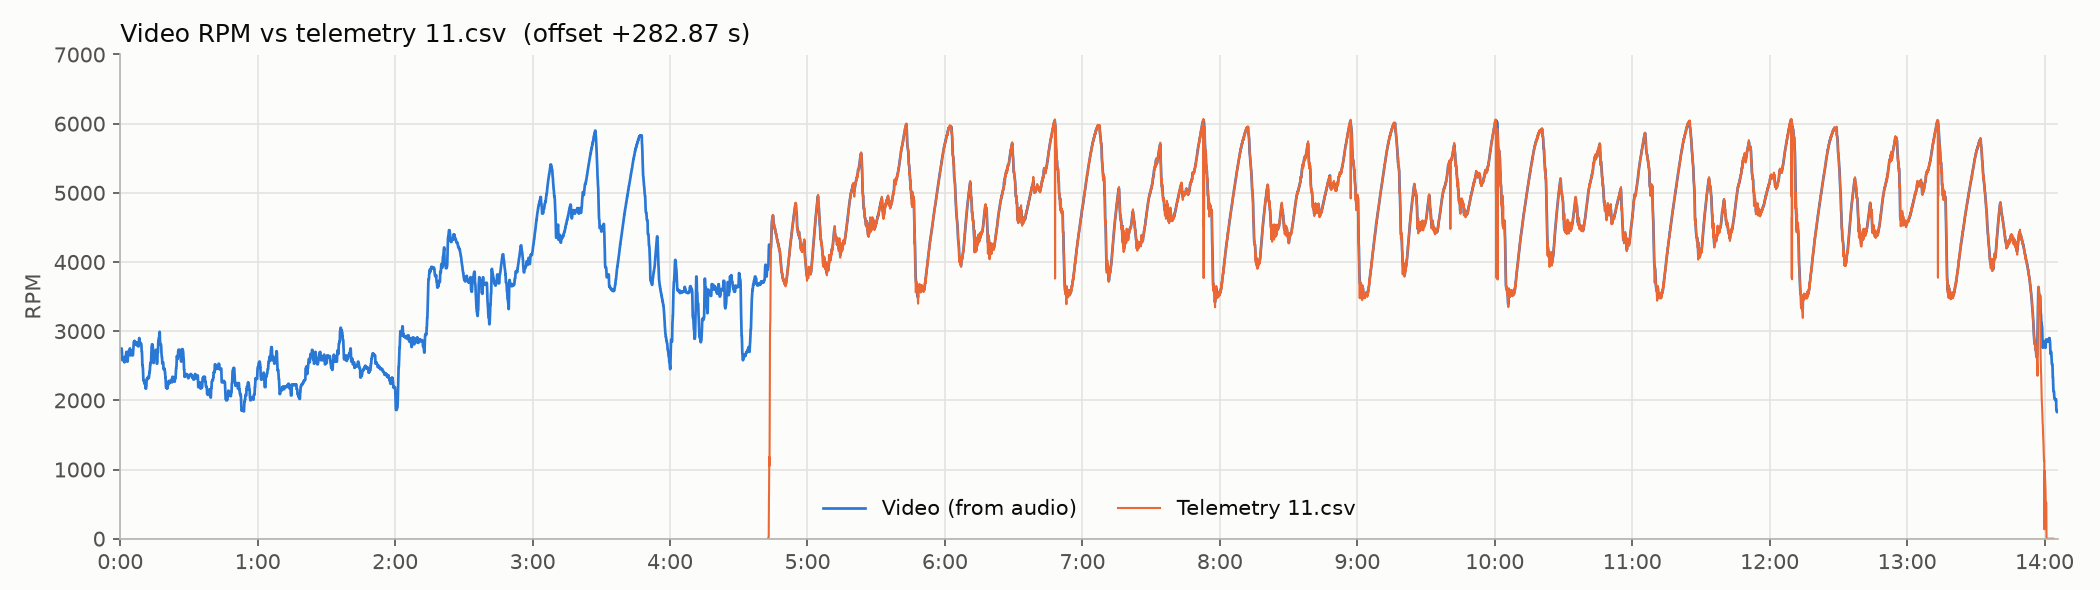
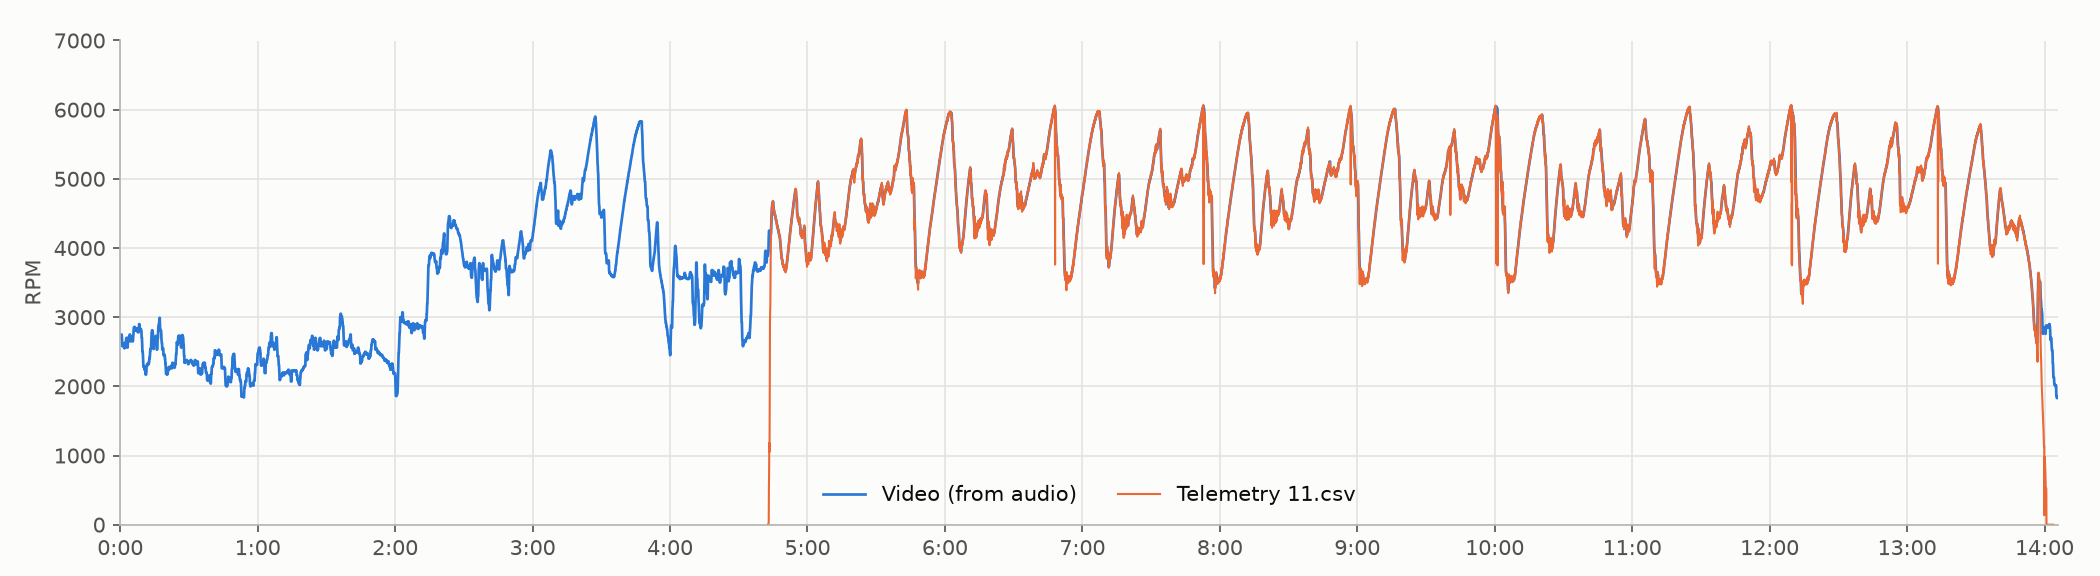
Show offsets as minutes, seconds and milliseconds

diff --git a/batch_sync.py b/batch_sync.py
@@ -9,9 +9,9 @@ For each video (*.MP4 / *.mov) in the folder:
   2. correlate it with every CSV in <folder>/telemetry   (kart_sync)
   3. verify the best candidates window-by-window
   4. if it's a confident match, copy the CSV to
-        <folder>/<video name> - <offset>.csv
-     where offset = seconds into the video at which telemetry t=0 occurs
-     (telemetry_time = video_time - offset).
+        <folder>/<video name> - <offset>.csv      e.g. "GX010034 - 0m33s925ms.csv"
+     where offset = time into the video at which telemetry t=0 occurs, as
+     <minutes>m<seconds>s<milliseconds>ms (telemetry_time = video_time - offset).
 
 Also writes <folder>/sync_check/<video> - sync.png (overlay plot) and
 <folder>/sync_check/summary.csv. Needs kart_rpm.py and kart_sync.py next to it,
@@ -31,7 +31,7 @@ import numpy as np
 sys.path.insert(0, os.path.dirname(os.path.abspath(__file__)))
 from kart_rpm import analyze, HOP_S                                   # noqa: E402
 from kart_sync import (load_aim_csv, resample, coarse_match,          # noqa: E402
-                       fine_align, plot_sync, natural_key)
+                       fine_align, plot_sync, natural_key, format_offset)
 
 VIDEO_EXT = (".mp4", ".mov", ".m4v")
 MIN_OVERLAP_S = 120         # minimum video/telemetry overlap for a match
@@ -67,7 +67,6 @@ def main():
     ap = argparse.ArgumentParser(description=__doc__.split("\n\n")[0])
     ap.add_argument("folder")
     ap.add_argument("--telemetry", default=None, help="default: <folder>/telemetry")
-    ap.add_argument("--decimals", type=int, default=2, help="decimals of the offset in file names")
     a = ap.parse_args()
 
     folder = os.path.abspath(a.folder)
@@ -95,7 +94,7 @@ def main():
         stem = os.path.splitext(os.path.basename(vp))[0]
         t0 = time.time()
         print(f"=== {os.path.basename(vp)}  ({os.path.getsize(vp) / 1e9:.1f} GB)")
-        row = dict(video=os.path.basename(vp), telemetry="", offset_s="", corr="",
+        row = dict(video=os.path.basename(vp), telemetry="", offset="", offset_s="", corr="",
                    offset_mad_s="", duration_s="", status="")
         try:
             res = analyze(vp, whole=True)
@@ -126,7 +125,7 @@ def main():
                 continue
             c.update(v)
             print(f"    {c['name']:<8} coarse r={c['r']:.3f}  windows agree {v['good_frac']:>4.0%}  "
-                  f"full r={v['full_r']:.3f}  offset {v['offset']:+8.2f} +/- {v['mad']:.2f}"
+                  f"full r={v['full_r']:.3f}  offset {format_offset(v['offset']):>10} +/- {v['mad'] * 1000:.0f} ms"
                   f"{'  (candidate)' if v['ok'] else ''}")
             if v["ok"]:
                 verified.append(c)
@@ -143,17 +142,18 @@ def main():
         if len(verified) > 1 and best["full_r"] - verified[1]["full_r"] < AMBIGUOUS_GAP:
             status = f"check: {verified[1]['name']} almost as good"
 
-        off_txt = f"{best['offset']:.{a.decimals}f}"
+        off_txt = format_offset(best["offset"], style="file")
         out = os.path.join(folder, f"{stem} - {off_txt}.csv")
         shutil.copy2(best["path"], out)
         plot_sync(tv, rv, best["tt"], best["rt"], best["offset"], best["name"],
                   os.path.join(check_dir, f"{stem} - sync.png"))
         m = best["meta"]
         print(f"    -> {best['name']} ({m.get('Session', '')}, {m.get('Date', '')} "
-              f"{m.get('Time', '')}), offset {off_txt} s"
+              f"{m.get('Time', '')}), offset {format_offset(best['offset'])}"
               f"{'' if status == 'matched' else '   [' + status + ']'}")
         print(f"    wrote {os.path.basename(out)}\n")
-        row.update(telemetry=best["name"], offset_s=off_txt, corr=f"{best['full_r']:.3f}",
+        row.update(telemetry=best["name"], offset=format_offset(best["offset"]),
+                   offset_s=f"{best['offset']:.3f}", corr=f"{best['full_r']:.3f}",
                    offset_mad_s=f"{best['mad']:.3f}", status=status)
         summary.append(row)
 
@@ -164,7 +164,7 @@ def main():
 
     print("Summary")
     for r in summary:
-        print(f"  {r['video']:<16} {r['status']:<10} {r['telemetry']:<8} {r['offset_s']}")
+        print(f"  {r['video']:<16} {r['status']:<10} {r['telemetry']:<8} {r['offset']}")
     used = [r["telemetry"] for r in summary if r["telemetry"]]
     dup = {u for u in used if used.count(u) > 1}
     if dup:

diff --git a/kart_sync.py b/kart_sync.py
@@ -38,6 +38,23 @@ from kart_rpm import analyze, _mmss, HOP_S
 
 
 # --------------------------------------------------------------------------- #
+# Offset formatting
+# --------------------------------------------------------------------------- #
+def format_offset(seconds, style="clock"):
+    """Format an offset as minutes / seconds / milliseconds.
+
+    style="clock" -> "4:42.870"     (for display; negative: "-0:12.500")
+    style="file"  -> "4m42s870ms"   (safe in file names on every OS)"""
+    sign = "-" if seconds < 0 else ""
+    ms_total = int(round(abs(seconds) * 1000))
+    m, rem = divmod(ms_total, 60_000)
+    s, ms = divmod(rem, 1000)
+    if style == "file":
+        return f"{sign}{m}m{s:02d}s{ms:03d}ms"
+    return f"{sign}{m}:{s:02d}.{ms:03d}"
+
+
+# --------------------------------------------------------------------------- #
 # Telemetry loading (AiM / MyChron CSV export)
 # --------------------------------------------------------------------------- #
 def load_aim_csv(path, channel="RPM"):
@@ -151,7 +168,7 @@ def plot_sync(tv, rv, tt, rt, offset, name, out_png, show=False):
     i0 = list(starts)[int(np.argmax(stds))] if stds and max(stds) > 0 else 0
     zoom = (tv[i0], tv[min(i0 + w, len(tv) - 1)])
 
-    for ax, xl, title in [(axes[0], (0, tv[-1]), f"Video RPM vs telemetry {name}  (offset {offset:+.2f} s)"),
+    for ax, xl, title in [(axes[0], (0, tv[-1]), f"Video RPM vs telemetry {name}  (offset {format_offset(offset)})"),
                           (axes[1], zoom, "Zoom")]:
         ax.set_facecolor("#fcfcfb")
         ax.plot(tv, rv, color=blue, lw=1.3, label="Video (from audio)")
@@ -218,11 +235,11 @@ def main():
                             offset=off, r=rr, overlap=ov))
     results.sort(key=lambda d: -d["r"])
 
-    print(f"{'file':<10}{'date':<32}{'time':<10}{'corr':>6}{'offset s':>10}{'overlap s':>11}")
+    print(f"{'file':<10}{'date':<32}{'time':<10}{'corr':>6}{'offset':>11}{'overlap s':>11}")
     for d in results:
         m = d["meta"]
         print(f"{d['name']:<10}{m.get('Date', ''):<32}{m.get('Time', ''):<10}"
-              f"{d['r']:>6.3f}{d['offset']:>10.2f}{d['overlap']:>11.0f}")
+              f"{d['r']:>6.3f}{format_offset(d['offset']):>11}{d['overlap']:>11.0f}")
 
     best = results[0]
     margin = best["r"] - (results[1]["r"] if len(results) > 1 else 0)
@@ -243,12 +260,13 @@ def main():
     print(f"Correlation: {best['r']:.3f}   (next best file {best['r'] - margin:.3f})")
     if margin < 0.05:
         print("WARNING    : match is not clearly better than the runner-up - check the plot")
-    print(f"Offset     : {offset:+.3f} s  (+/- {spread:.3f} s across {len(good)} windows)")
+    print(f"Offset     : {format_offset(offset)}  (m:ss.mmm = {offset:+.3f} s, "
+          f"+/- {spread * 1000:.0f} ms across {len(good)} windows)")
     print(f"             telemetry_time = video_time {'-' if offset >= 0 else '+'} {abs(offset):.3f}")
     if offset >= 0:
-        print(f"             telemetry t=0 is {offset:.3f} s into the video ({_mmss(offset)})")
+        print(f"             telemetry t=0 is {format_offset(offset)} into the video")
     else:
-        print(f"             video t=0 is {-offset:.3f} s into the telemetry")
+        print(f"             video t=0 is {format_offset(-offset)} into the telemetry")
     if not np.isnan(drift):
         print(f"Clock drift: {drift:+.1f} ms per 1000 s of video")
     print("=" * 64)

diff --git a/README.md b/README.md
@@ -16,7 +16,7 @@ scripts) without lining up clips by hand.
 
 *A 14-minute GoPro clip matched against ten telemetry files from the same weekend. Blue is the
 RPM recovered from the camera's audio; orange is the logger's RPM channel shifted by
-the detected offset (+282.87 s, the logger started 4:43 into the video). The two
+the detected offset (4:42.870, i.e. the logger started 4 min 42.870 s into the video). The two
 traces overlap lap after lap. Before the logger starts, the blue trace shows the
 pre-session idle and other karts nearby. The matching ignores that part.*
 
@@ -84,24 +84,28 @@ For each video that has a confident match, a copy of the telemetry file is writt
 next to the video:
 
 ```
-GX010034 - 33.93.csv
+GX010034 - 0m33s925ms.csv
+GX010040 - 4m42s870ms.csv
 ```
 
-The number is the **offset in seconds**, i.e. the point in the video where telemetry
-time 0 happens:
+The suffix is the **offset** as minutes, seconds and milliseconds: the point in the
+video where telemetry time 0 happens. (File names use `m`/`s`/`ms` because `:` isn't
+allowed in file names on Windows and shows up as `/` in the macOS Finder. On screen and
+in the plots the same offset is shown as `m:ss.mmm`, e.g. `4:42.870`.)
 
 ```
 video_time     = telemetry_time + offset
 telemetry_time = video_time - offset
 ```
 
-A negative offset (e.g. `GX010040 - -12.50.csv`) means the logger started before the
-camera: video time 0 is 12.5 s into the telemetry.
+A negative offset (e.g. `GX010041 - -0m12s500ms.csv`) means the logger started before
+the camera: video time 0 is 12.5 s into the telemetry.
 
 The script also creates `race-day/sync_check/`:
 
 - `<video> - sync.png`: video RPM plotted over telemetry RPM, for a visual check.
-- `summary.csv`: per video, the matched file, offset, correlation and status.
+- `summary.csv`: per video, the matched file, the offset (both `m:ss.mmm` and plain
+  seconds, for spreadsheets and scripts), correlation and status.
 
 | Status | Meaning |
 |---|---|
@@ -115,7 +119,6 @@ Options:
 | Flag | Default | |
 |---|---|---|
 | `--telemetry DIR` | `<folder>/telemetry` | Where the CSV files are. |
-| `--decimals N` | `2` | Decimal places of the offset in file names. |
 
 ### Several race days at once
 
